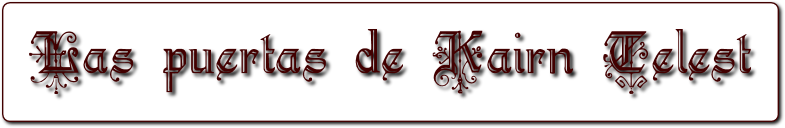
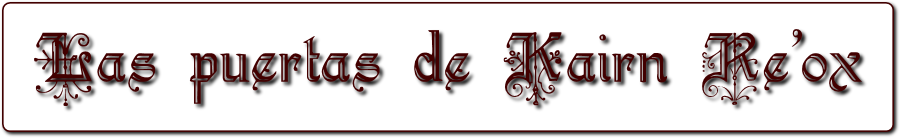
Actualizacion del titulo del sitio

Changed region(s): [[0.0, 0.0, 1.0, 1.0]]

diff --git a/app/assets/stylesheets/custom.css.scss b/app/assets/stylesheets/custom.css.scss
@@ -62,6 +62,15 @@ textarea {
       max-width: 250px;  
     }
   }
+  .imagen_contenido_derecha{
+    position: relative;
+    float: right; 
+    margin-left: 10px;
+    margin-right: 20px;
+    img {
+      max-width: 250px;  
+    }
+  }
 }
 
 .titulo_contenido{

diff --git a/app/helpers/application_helper.rb b/app/helpers/application_helper.rb
@@ -2,7 +2,7 @@ module ApplicationHelper
 
 # Returns the full title on a per-page basis.
   def full_title(page_title)
-    base_title = "Las puertas de Kairn Telest"
+    base_title = "Las puertas de Kairn Re'ox"
     if page_title.empty?
       base_title
     else
